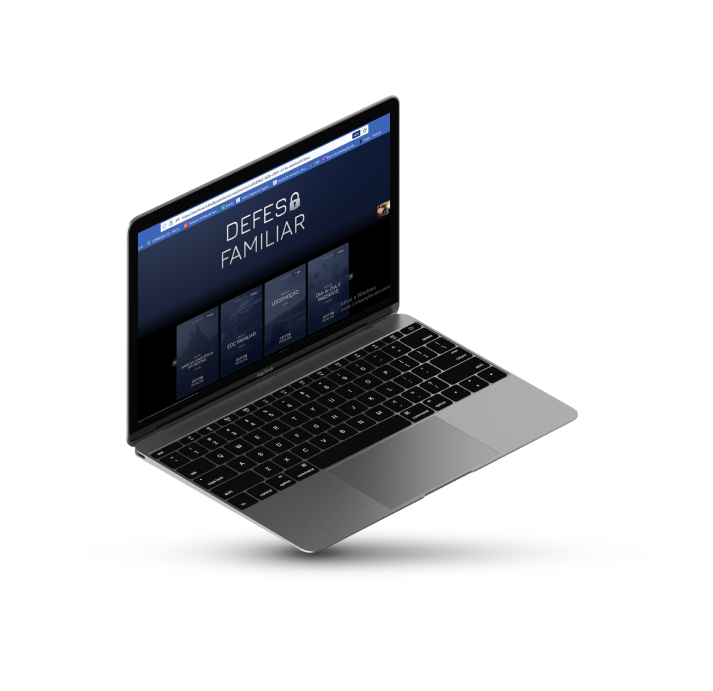
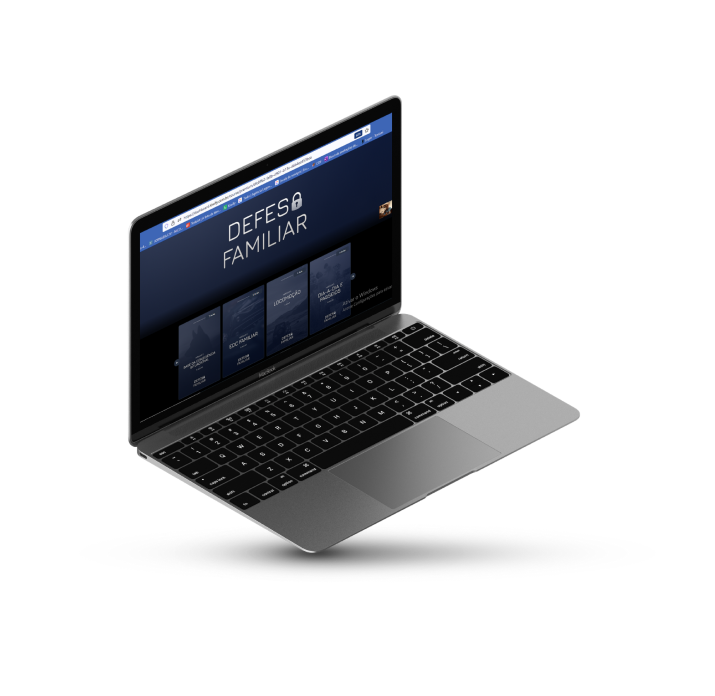
Finishing Nicolas Upsell-Page

diff --git a/Nicolas Dalzotto/Consciência situacional/upsell-df.html b/Nicolas Dalzotto/Consciência situacional/upsell-df.html
@@ -22,7 +22,14 @@
             <img src="./images/notebook-df.png" alt="Notebook do defesa familiar">
         </figure>
         <br>
-        <p>Garanta agora o Defesa Familiar numa condição especial e tenha em mãos tudo que você precisa para ser o guarda-costas da sua família</p>
+        <p class="font7 font-color1">Garanta agora o Defesa Familiar numa condição especial e tenha em mãos tudo que você precisa para ser o guarda-costas da sua família</p>
+        <br><br>
+        <div style="text-align:center">
+            <button class="font3" id="kiwify-upsell-trigger-AFqx2Ug" style="background-color:#DDE6E8;padding:12px 16px;cursor:pointer;color:#000000;font-weight:600;border-radius:4px;border:1px solid #DDE6E8;font-size:20px;">Quero garantir minha vaga</button><br><br>
+            <div id="kiwify-upsell-cancel-trigger" style="margin-top:1rem;cursor:pointer;font-size:16px;text-decoration:underline;font-family:sans-serif; color: white;">Não, eu gostaria de recusar essa oferta</div>
+          </div><script> 
+              let nextUpsellURL = "";
+              let nextDownsellURL = "";</script><script src="https://kiwify-snippets.netlify.app/upsell/upsell.min.js"></script>
     </main>
 </body>
 </html>

diff --git a/Nicolas Dalzotto/Consciência situacional/styles5-consc.css b/Nicolas Dalzotto/Consciência situacional/styles5-consc.css
@@ -170,6 +170,18 @@ main{
     flex-direction: column;
     justify-content: center;
     align-items: center;
+    text-align: center !important;
+}
+.upsell-df-body main{
+    display: flex;
+    flex-direction: column;
+}
+.upsell-df-body p{
+    width: 500px;
+    font-size: 20px;
+}
+.upsell-df-body header{
+    margin-top: 110px;
 }
 .pilares-section{
     display: flex;
@@ -449,6 +461,24 @@ footer{
     }
     main h1{
         font-size: 20px;
+    }
+    .upsell-df-body main{
+        background-image: none;
+        padding-bottom: 0;
+    }
+    .upsell-df-body main img{
+        width: 80%;
+    }
+    .upsell-df-body p {
+        width: 100%;
+        font-size: 16px;
+        padding: 0 30px;
+    }
+    .upsell-df-body header {
+        margin-top: 50px;
+    }
+    .upsell-df-body header img{
+        width: 150px;
     }
     .main-text-div{
         margin: 0 30px;
